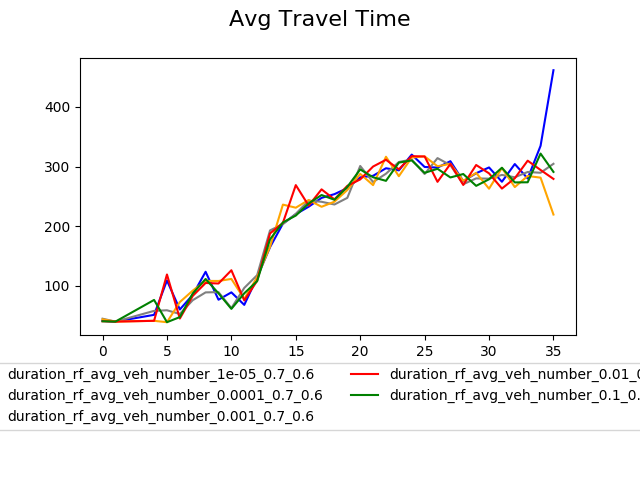
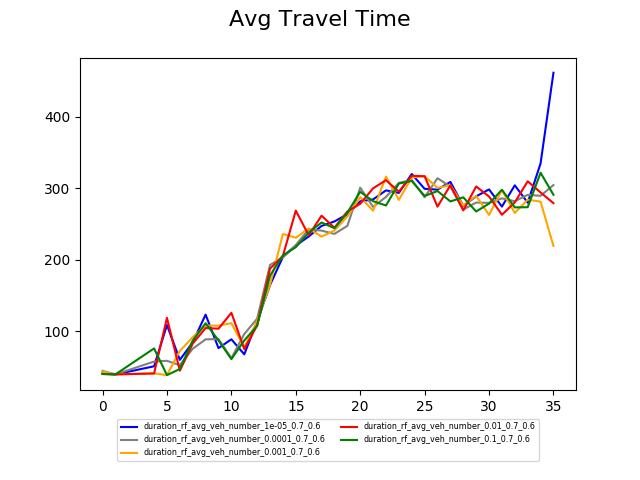
Adjustment to plot legend size

diff --git a/stats/stats_plotter_sumo.py b/stats/stats_plotter_sumo.py
@@ -111,8 +111,8 @@ def createSinglePlotAveragesOnly(folder, label, experimentParams, y_column, titl
 
     # Shrink current axis's height by 10% on the bottom
     box = ax.get_position()
-    ax.set_position([box.x0, box.y0 + box.height * 0.25,
-                     box.width, box.height * 0.75])
+    ax.set_position([box.x0, box.y0 + box.height * 0.1,
+                     box.width, box.height * 0.9])
     #ax.set_position([box.x0 + box.width * 0.3, box.y0,
     #                 box.width * 0.7, box.height])
 
@@ -120,12 +120,11 @@ def createSinglePlotAveragesOnly(folder, label, experimentParams, y_column, titl
     ax.legend(loc='upper center', bbox_to_anchor=(0.5, -0.075),
           fancybox=True, ncol=2, fontsize='xx-small')
 
-
     plt.savefig(f"output/{folder}/sumo_{label}_single.png")
 
 
 def generateStatistics(folder, experimentParams, numberOfRuns, label, col):
-    createPlot(folder, col, experimentParams, numberOfRuns, [col], [sAgg.PLOT_KIND_LINE], aggregateDFsBy = ['step'], 
+    createPlot(folder, col, experimentParams, numberOfRuns, [col], [sAgg.PLOT_KIND_LINE], aggregateDFsBy = ['step'],
         groupRunsColumn = col, groupRunsFunc = 'mean', discretizeStepBy = 600)
 
     createSinglePlotAveragesOnly(folder, f"single_{col}_avg", experimentParams, col, label, discretizeStepBy = 600)
@@ -151,7 +150,7 @@ if __name__ == '__main__':
     col_waiting_time = 'waitingTime'
     col_waiting_count = 'waitingCount'
     col_time_loss = 'timeLoss'
-    
+
     generateStatistics(experimentPrefix, experimentParams, numberOfRuns, 'Avg Departure Delay', col_depart_delay)
 
     generateStatistics(experimentPrefix, experimentParams, numberOfRuns, 'Avg Travel Time', col_duration)

diff --git a/stats/stats_plotter.py b/stats/stats_plotter.py
@@ -145,14 +145,14 @@ def createSinglePlotAveragesOnly(folder, label, experimentParams, file_prefix, y
 
     # Shrink current axis's height by 10% on the bottom
     box = ax.get_position()
-    ax.set_position([box.x0, box.y0 + box.height * 0.25,
-                     box.width, box.height * 0.75])
+    ax.set_position([box.x0, box.y0 + box.height * 0.1,
+                     box.width, box.height * 0.9])
     #ax.set_position([box.x0 + box.width * 0.3, box.y0,
     #                 box.width * 0.7, box.height])
 
     # Put a legend below current axis
     ax.legend(loc='upper center', bbox_to_anchor=(0.5, -0.075),
-          fancybox=True, ncol=2)
+          fancybox=True, ncol=2, fontsize='xx-small')
 
 
     plt.savefig(f"output/{folder}/{label}_single.png")
